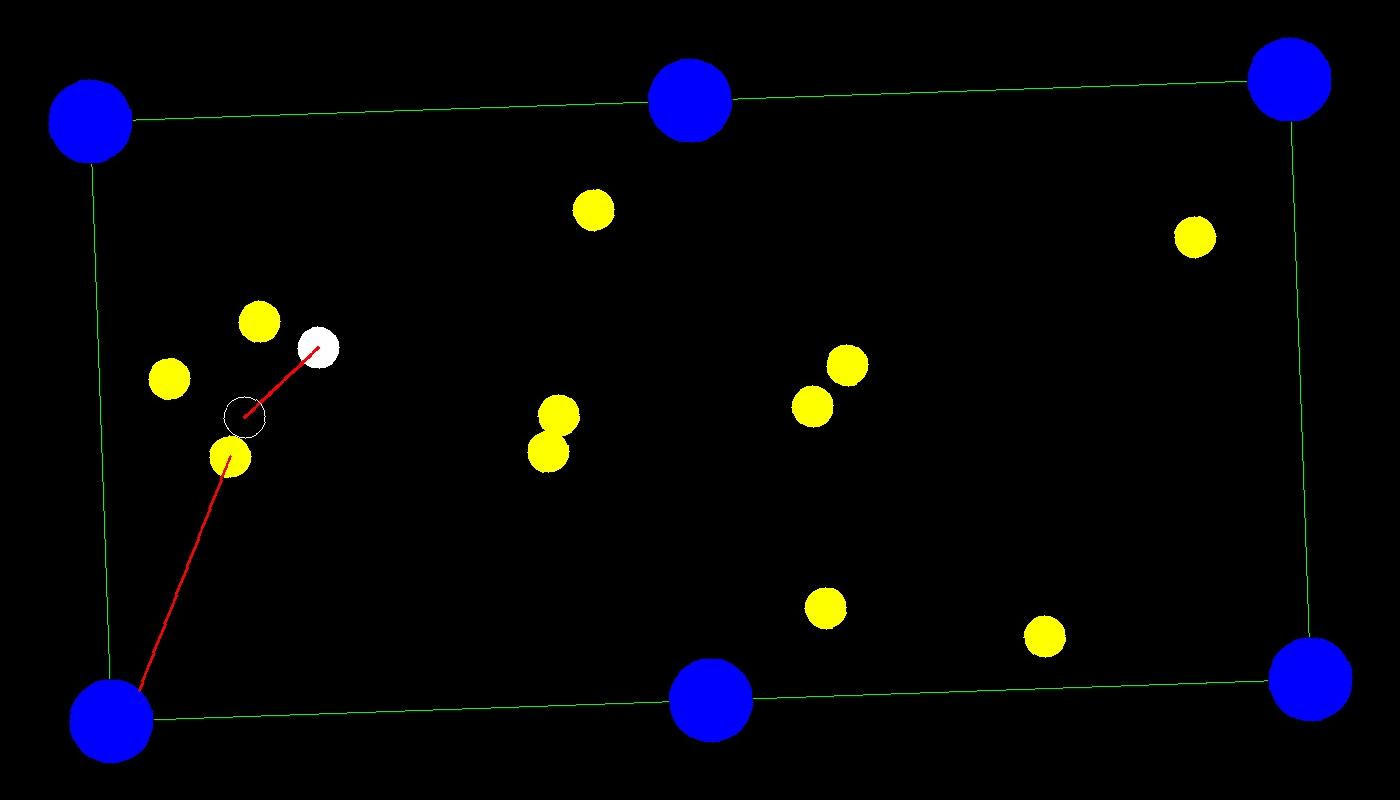
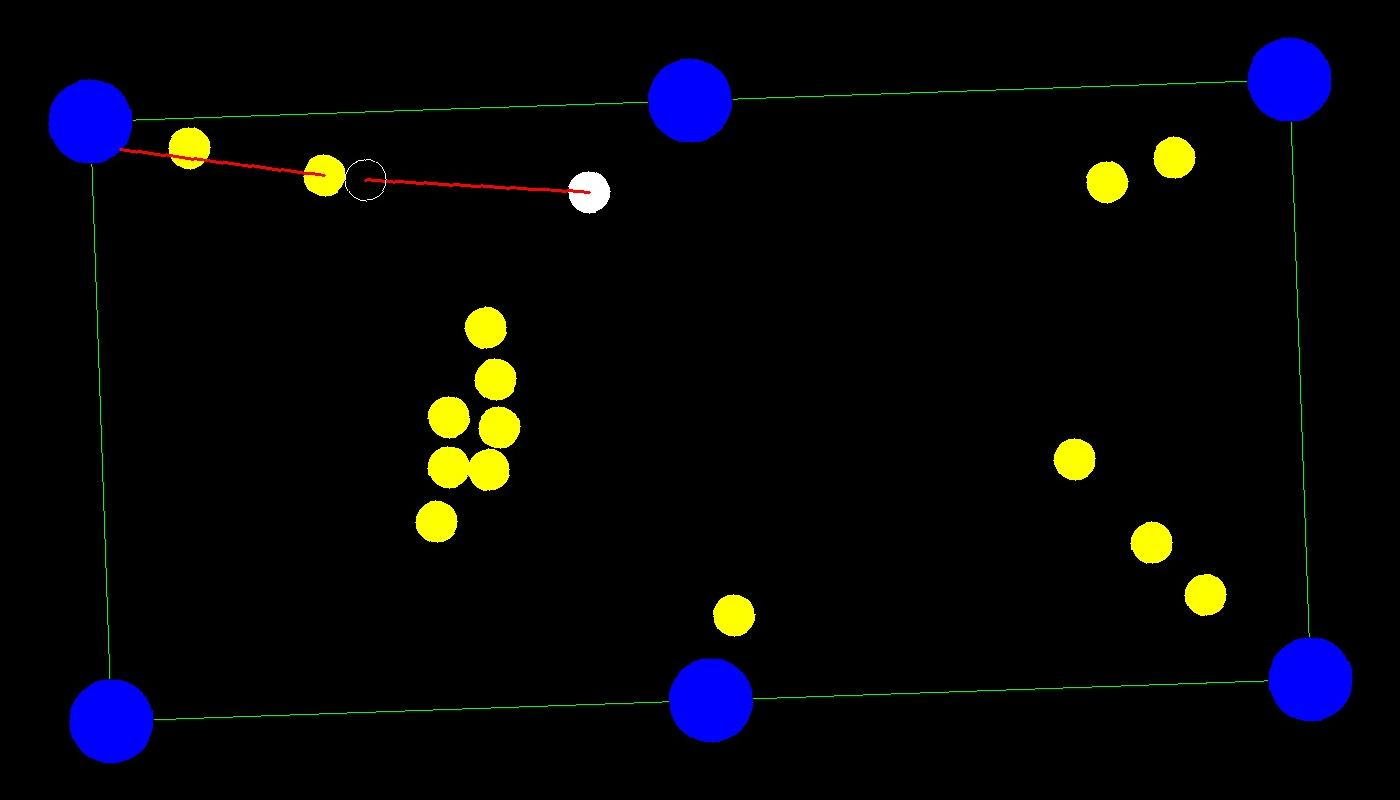
dang it devank

diff --git a/pool_ball_rec_2.py b/pool_ball_rec_2.py
@@ -266,7 +266,7 @@ def FindTheColors(img, centers):
                 cue.append((centerY,centerX,radius))
                 cv2.circle(img,(int(centerY),int(centerX)),int(radius),WHITE,2)
                 cv2.circle(img,(int(tmp_x),int(tmp_y)),int(tmp_rad),RED,2)
-                stripes.append((tmp_y,tmp_x,tmp_rad))
+                stripes.append((tmp_x,tmp_y,tmp_rad))
                 maxWhitePixels = numOfWhitePixels
         elif numOfWhitePixels > 250:
             stripes.append((centerY,centerX,radius))
@@ -334,25 +334,22 @@ def detect_changes(tempList, target):
     global big_list
     global prev_target
     #(prev_target, target)
-    if (checkEquality(tempList,big_list) and prev_target == target):
-        return
-    else:
-        stablize = False
-        while(not stablize):
-            time.sleep(.5)
-            print("stabilizing")
-            newList = DetectPoolBalls()
-            newList.append(target)
-            if(checkEquality(newList,big_list) and prev_target == target):
-                stablize = True
-            else:
-                print(newList)
-                print(big_list)
-                big_list = newList
-                prev_target = target
+    stablize = False
+    while(not stablize):
+        time.sleep(.5)
+        print("stabilizing")
+        newList = DetectPoolBalls()
+        newList.append(target)
+        if(checkEquality(newList,big_list) and prev_target == target):
+            stablize = True
+        else:
+            print(newList)
+            print(big_list)
+            big_list = newList
+            prev_target = target
                 
         #print(newList[3], target, prev_target, big_list[3])
-        shot_calculation.start_calc(big_list[0],big_list[1],big_list[2],big_list[3])
+    shot_calculation.start_calc(big_list[0],big_list[1],big_list[2],big_list[3])
 
 arduino = serial.Serial(port = '/dev/cu.usbmodem141101',baudrate=115200, timeout=0)
 imcap = cv2.VideoCapture(0) 

diff --git a/shot_calculation.py b/shot_calculation.py
@@ -327,7 +327,7 @@ def create_second_lines():
                 shot_params[SECOND_INTERCEPT][pocket] = NAN
             continue
         #create a line for each pocket
-        pocket_index = 0;
+        pocket_index = 0
         for pocket in center_edges:
             collision = False
             #check collision for that pocket with every ball
@@ -375,9 +375,9 @@ def drawImage(choice):
         pocketX = int(center_edges[pocket_for_each_ball[chosen_shot-1][0]][POCKETX])
         pocketY = int(center_edges[pocket_for_each_ball[chosen_shot-1][0]][POCKETY])
         m = 0
-        if (listX[chosen_shot+1]==pocketX): m = INF
+        if (listX[chosen_shot]==pocketX): m = INF
         else: 
-            m = (listY[chosen_shot+1]-pocketY)/(listX[chosen_shot+1]-pocketX)
+            m = (listY[chosen_shot]-pocketY)/(listX[chosen_shot]-pocketX)
         new_slope = -1/m
         theta = math.atan(new_slope)
         newX = shot_params[GHOST_BALL][0] + int(REFLECT_DIST * math.cos(theta))
